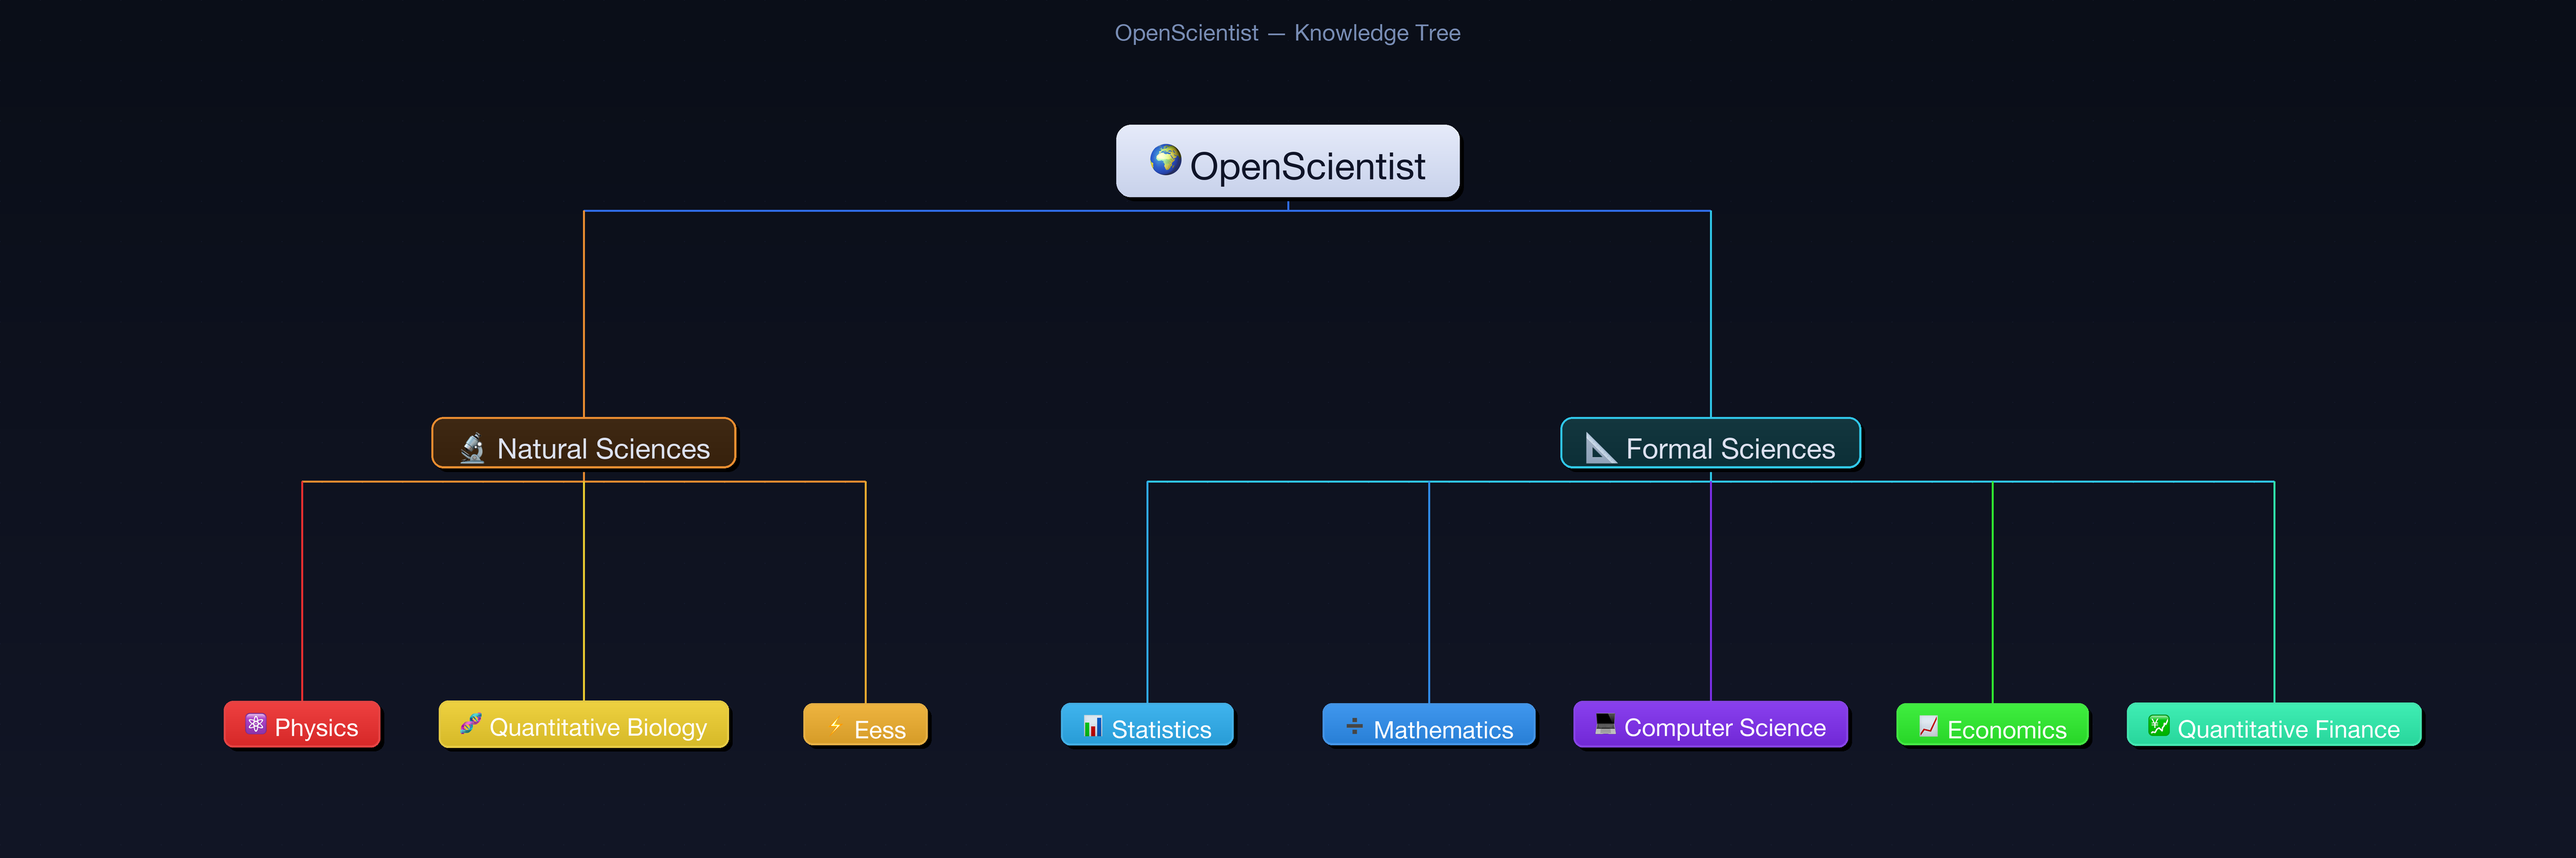
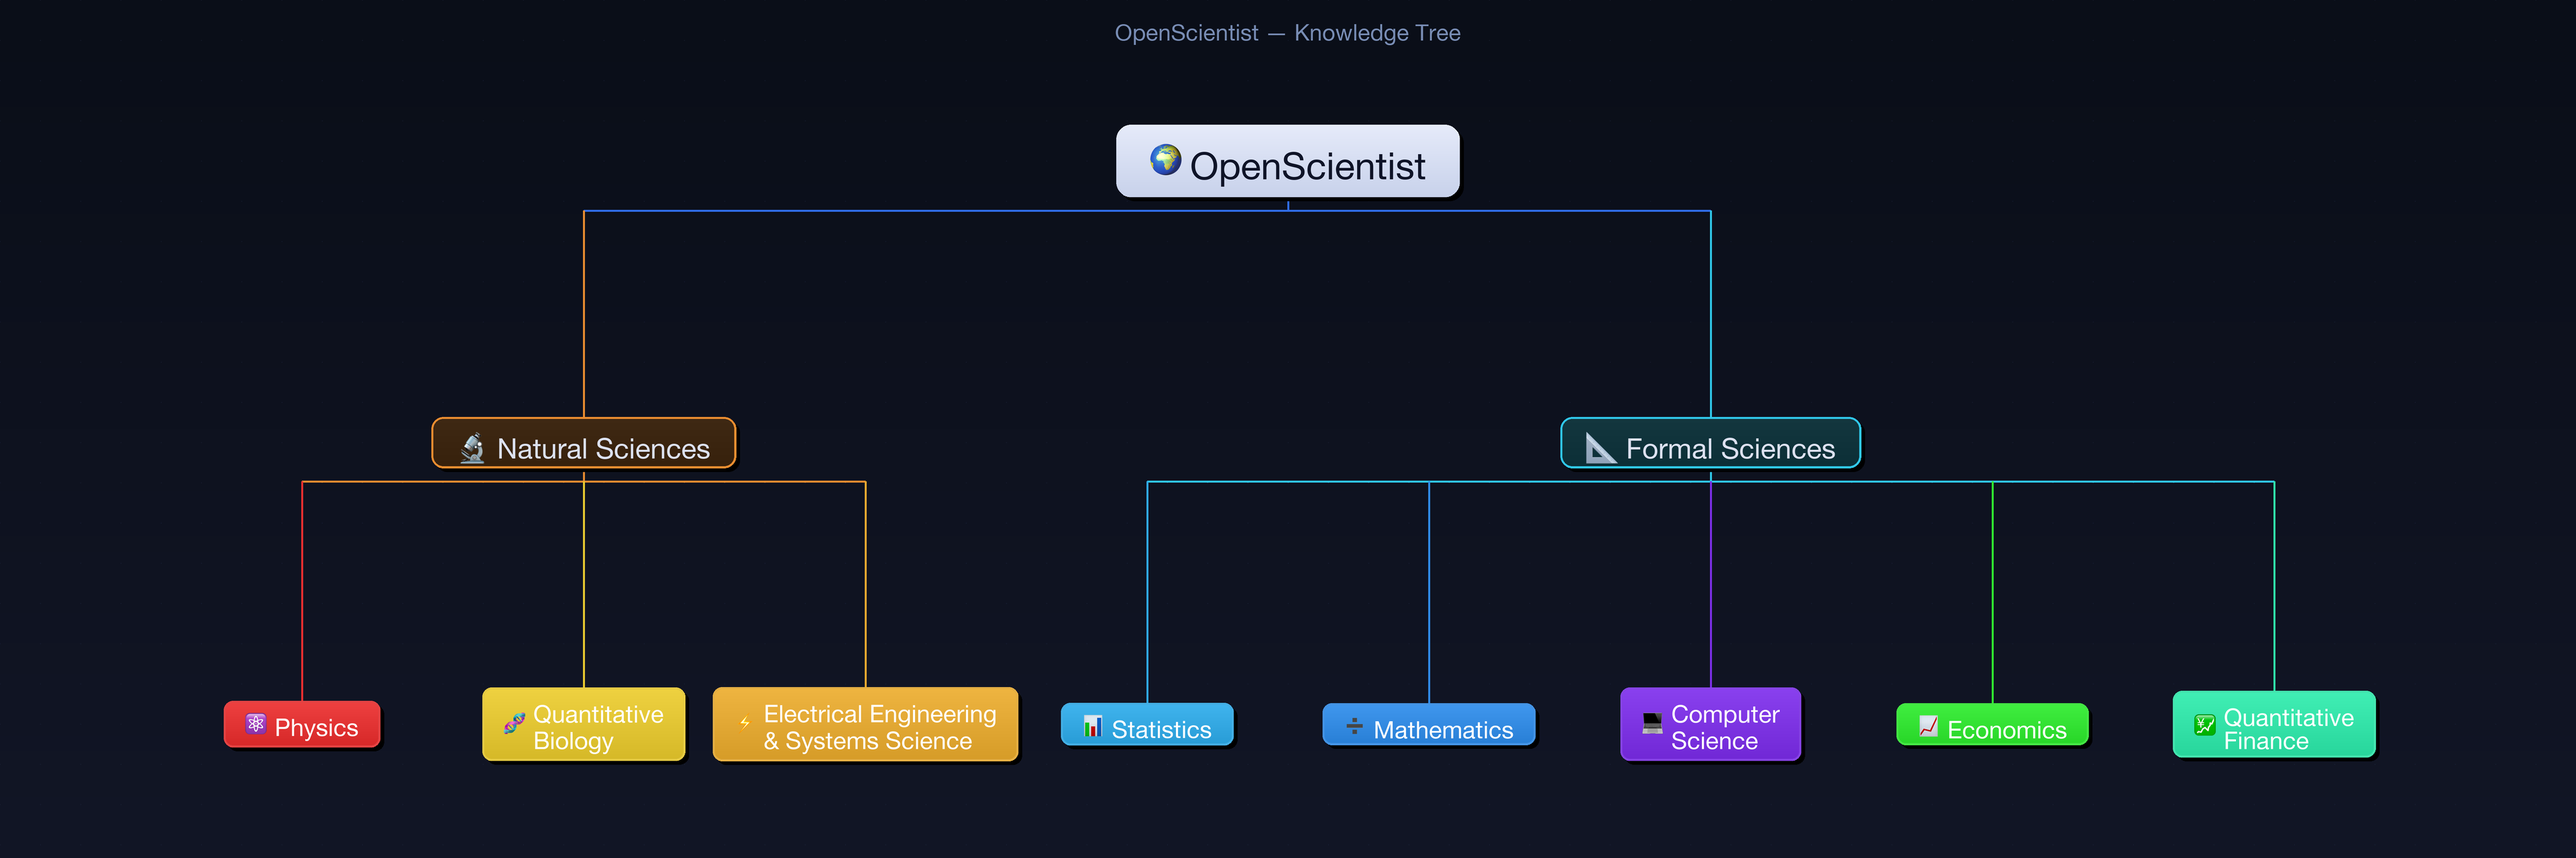
fix: display full domain names in knowledge tree image
Replace abbreviations (Eess, etc.) with full names like
"Electrical Engineering & Systems Science" in both the
static PNG and diagram generation scripts.

Changed region(s): [[0.1562, 0.7812, 0.4062, 0.9062], [0.8125, 0.7812, 0.9688, 0.9062], [0.5938, 0.7812, 0.7188, 0.9062]]

diff --git a/tools/build_tree_image.py b/tools/build_tree_image.py
@@ -16,7 +16,7 @@ import yaml
 REPO   = Path(__file__).parent.parent
 SKILLS = REPO / "skills"
 ASSETS = REPO / "assets"
-OUT    = ASSETS / "knowledge-tree.png"
+OUT    = ASSETS / "knowledge-tree-v2.png"
 README = REPO / "readme.md"
 
 FONT   = "/System/Library/Fonts/HelveticaNeue.ttc"
@@ -95,7 +95,16 @@ class N:
         self.pal=make_palette(hue)
         self.children=[]; self.x=self.y=self.span=0.0
 
+DISPLAY_NAMES = {
+    "eess": "Electrical Engineering\n& Systems Science",
+    "quantitative-biology": "Quantitative\nBiology",
+    "quantitative-finance": "Quantitative\nFinance",
+    "computer-science": "Computer\nScience",
+}
+
 def fmt(name):
+    if name in DISPLAY_NAMES:
+        return DISPLAY_NAMES[name]
     return name.replace("-", " ").title()
 
 def build(data):

diff --git a/tools/build_diagram.py b/tools/build_diagram.py
@@ -30,7 +30,16 @@ NATURAL_SCIENCES = {"physics", "quantitative-biology", "eess"}
 FORMAL_SCIENCES  = {"mathematics", "computer-science", "statistics", "economics", "quantitative-finance"}
 
 
+DISPLAY_NAMES = {
+    "eess": "Electrical Engineering & Systems Science",
+    "quantitative-biology": "Quantitative Biology",
+    "quantitative-finance": "Quantitative Finance",
+    "computer-science": "Computer Science",
+}
+
 def label(name: str) -> str:
+    if name in DISPLAY_NAMES:
+        return DISPLAY_NAMES[name]
     return name.replace("-", " ").title()
 
 
